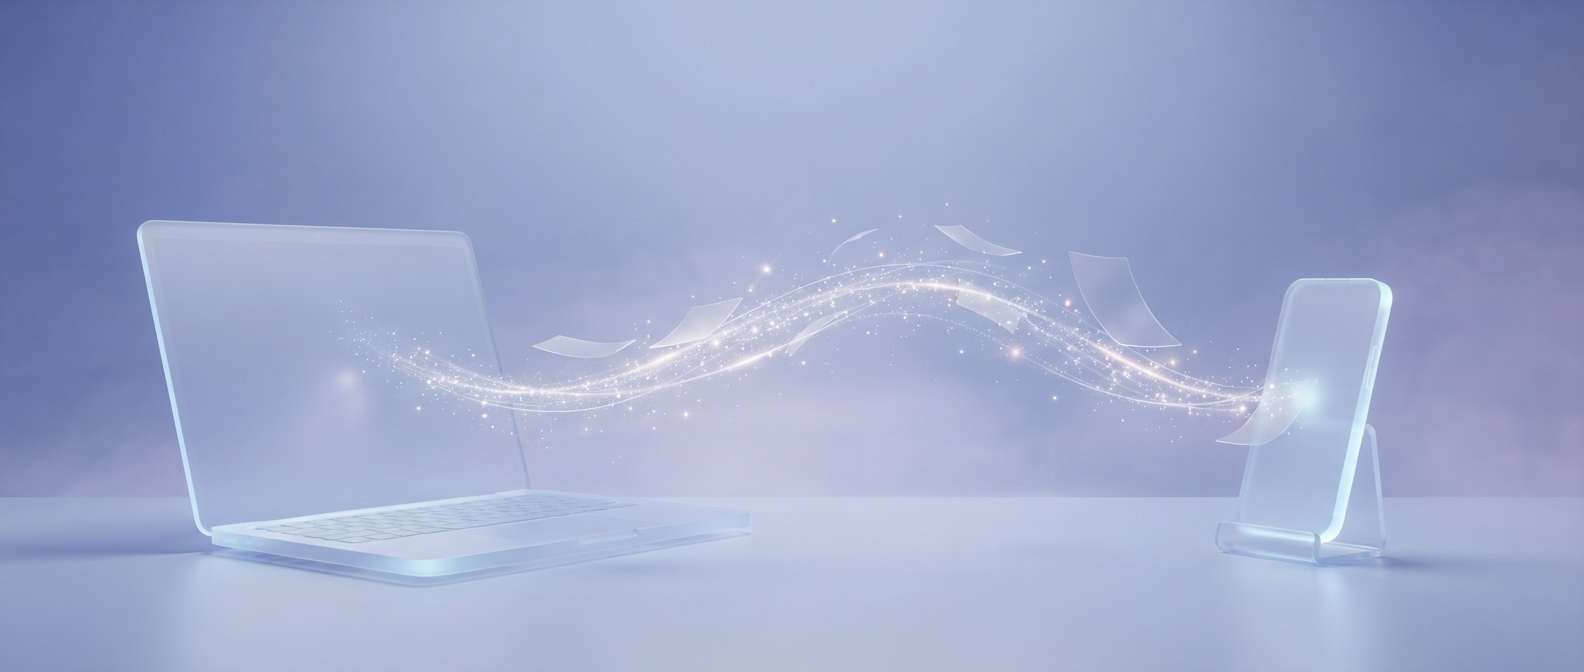
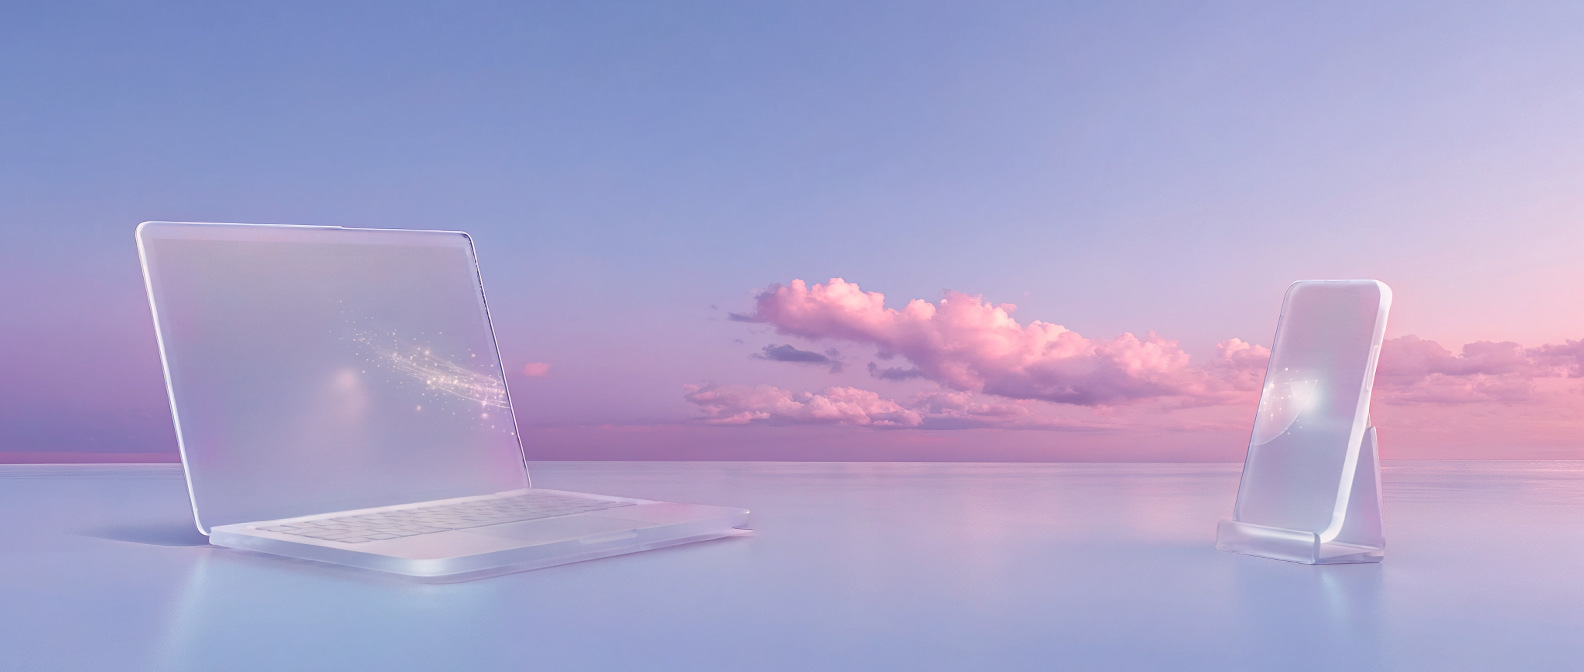
feat(app): 传书页头图换成无光带底图，光带改由叠加层绘制
底图去掉了原有的光带、粒子和纸页，避免与动效重叠；
用 SVG 画出柔光和丝线组成的光带，起止点对准设备屏幕上的光点

diff --git a/app/src/ui/TransferArt.tsx b/app/src/ui/TransferArt.tsx
@@ -1,6 +1,7 @@
 import { useFocusEffect } from 'expo-router';
 import { useCallback, useMemo, useState } from 'react';
 import { Animated, Easing, Image, StyleSheet, View, type LayoutChangeEvent } from 'react-native';
+import Svg, { Defs, LinearGradient, Path, Stop } from 'react-native-svg';
 import { useReduceMotion } from '@/ui/motion';
 import { FILL_IMAGE } from '@/ui/theme';
 
@@ -8,9 +9,9 @@ const ART = require('../../assets/images/transfer-hero.jpg');
 const ART_W = 1584;
 const ART_H = 672;
 
-/** 图中光带的中线（原图像素坐标），从笔记本屏幕流向手机 */
+/** 光带中线（底图像素坐标），从笔记本屏幕上的光点流向手机屏幕上的光点 */
 const STREAM: [number, number][] = [
-  [345, 305], [420, 342], [500, 375], [600, 390], [700, 378], [800, 335], [880, 300],
+  [350, 318], [430, 360], [510, 396], [600, 400], [700, 378], [800, 335], [880, 300],
   [960, 284], [1040, 296], [1120, 335], [1200, 375], [1260, 395], [1305, 392],
 ];
 const STOPS = STREAM.map((_, i) => i / (STREAM.length - 1));
@@ -37,7 +38,15 @@ const PAGES = [0, 0.34, 0.67].map((phase, i) => ({
   dy: -14 - i * 5,
   spin: [-18, 22, -10][i],
 }));
-const SPARKLES = Array.from({ length: 9 }, () => ({
+/** 光带：[中段散开距离 pt, 线宽, 不透明度]，前两条是柔光，其余是丝线 */
+const STRANDS: [number, number, number][] = [
+  [0, 18, 0.07], [0, 8, 0.14], [0, 3, 0.3],
+  [-6, 0.5, 0.35], [-2.5, 0.9, 0.6], [0, 0.7, 0.85], [3, 0.8, 0.5], [7, 0.5, 0.3],
+];
+/** 光带整体明暗呼吸 */
+const shimmer = (clock: Animated.Value) =>
+  Animated.modulo(Animated.multiply(clock, 2), 1).interpolate({ inputRange: [0, 0.5, 1], outputRange: [0.8, 1, 0.8] });
+const SPARKLES =Array.from({ length: 9 }, () => ({
   at: rand(0.08, 0.92),
   dx: rand(-10, 10),
   dy: rand(-18, 18),
@@ -111,8 +120,34 @@ function buildLayers(w: number, h: number, clock: Animated.Value) {
     { translateY: p.interpolate({ inputRange: STOPS, outputRange: ys.map((y) => y + dy - size / 2) }) },
   ];
 
+  // 光带丝线：两端收拢在设备上，中段按 spread 散开
+  const strand = (spread: number) => {
+    const pts = xs.map((x, i) => [x, ys[i] + spread * Math.sin(Math.PI * STOPS[i])] as const);
+    let d = `M${pts[0][0]},${pts[0][1]}`;
+    for (let i = 0; i < pts.length - 1; i++) {
+      const [p0, p1, p2, p3] = [pts[i - 1] ?? pts[i], pts[i], pts[i + 1], pts[i + 2] ?? pts[i + 1]];
+      d += ` C${p1[0] + (p2[0] - p0[0]) / 6},${p1[1] + (p2[1] - p0[1]) / 6} ${p2[0] - (p3[0] - p1[0]) / 6},${p2[1] - (p3[1] - p1[1]) / 6} ${p2[0]},${p2[1]}`;
+    }
+    return d;
+  };
+
   return (
     <View style={StyleSheet.absoluteFill} pointerEvents="none">
+      <Animated.View style={[StyleSheet.absoluteFill, { opacity: shimmer(clock) }]}>
+        <Svg width={w} height={h}>
+          <Defs>
+            <LinearGradient id="band" x1={xs[0]} y1={0} x2={xs[xs.length - 1]} y2={0} gradientUnits="userSpaceOnUse">
+              <Stop offset="0" stopColor="#FFFFFF" stopOpacity={0} />
+              <Stop offset="0.15" stopColor="#FFF4FA" stopOpacity={1} />
+              <Stop offset="0.85" stopColor="#FFF4FA" stopOpacity={1} />
+              <Stop offset="1" stopColor="#FFFFFF" stopOpacity={0} />
+            </LinearGradient>
+          </Defs>
+          {STRANDS.map(([spread, width, opacity], i) => (
+            <Path key={i} d={strand(spread)} stroke="url(#band)" strokeWidth={width} strokeOpacity={opacity} strokeLinecap="round" fill="none" />
+          ))}
+        </Svg>
+      </Animated.View>
       {SPARKLES.map((k, i) => {
         const [x, y] = pointAt(k.at);
         const p = progress(k.speed, k.phase);
